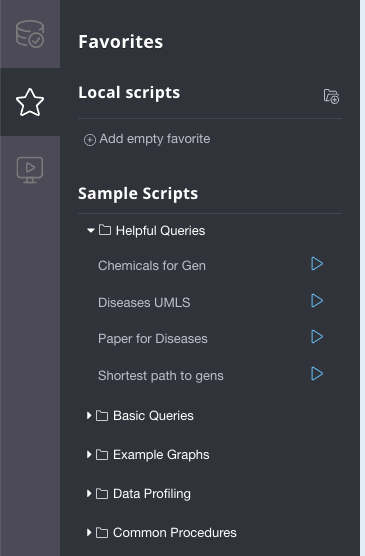
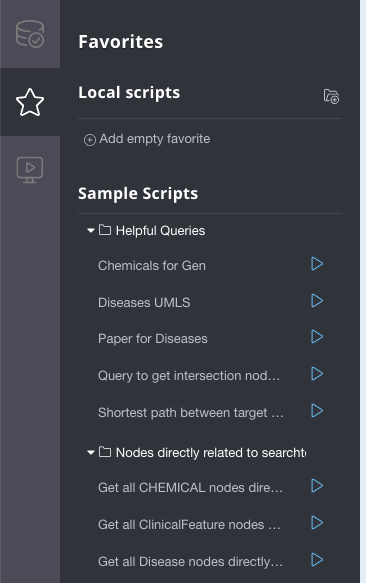
adjust scripts, add more queries, new pictures in browser

diff --git a/src/shared/modules/favorites/staticScripts.ts b/src/shared/modules/favorites/staticScripts.ts
@@ -22,7 +22,7 @@ export const scripts = [
   {
     folder: 'queries',
     content:
-      "// Shortest path to gens \n MATCH (source:Gene {gene:'PAH'}), (target:Gene) CALL apoc.algo.dijkstra(source, target, 'CONTAINS', '') YIELD path RETURN *",
+      "// Shortest path between target and source \n MATCH (source:SearchTerm {label:'phenylketonuria'}), (target:SearchTerm {label: 'epilepsy'}) CALL apoc.algo.dijkstra(source, target, 'CONTAINS', '') YIELD path RETURN *",
     versionRange: '>=3'
   },
   {
@@ -40,7 +40,61 @@ export const scripts = [
   {
     folder: 'queries',
     content:
+      '// Query to get intersection nodes of two search terms You can change the target node of intersection and the search term labels as well Note that you have to change the number in front of the target node, too. For example 5->Protein, 4->Gene. According to their distance to the search Term \n MATCH (s:SearchTerm {label: "phenylketonuria"})-[*5]->(n:Protein) WITH collect(DISTINCT n) AS r1 MATCH (s:SearchTerm {label: "epilepsy"})-[*5]->(n:Protein) WITH collect(DISTINCT n) AS r2, r1 AS r1 RETURN apoc.coll.intersection(r1, r2)',
+    versionRange: '>=3'
+  },
+  {
+    folder: 'queries',
+    content:
       '// Paper for Diseases \n MATCH (u:UMLS {name: "Phenylketonurias"})-[]-()-[]-(p:Paper) RETURN *',
+    versionRange: '>=3'
+  },
+  {
+    folder: 'queries_layers',
+    content:
+      '// Get all UMLS nodes directly related to search term \n MATCH (s:SearchTerm {label: "phenylketonuria"})-[*3]->(u:UMLS) RETURN *',
+    versionRange: '>=3'
+  },
+  {
+    folder: 'queries_layers',
+    content:
+      '// Get all Disease nodes directly related to search term \n MATCH (s:SearchTerm {label: "phenylketonuria"})-[*2]->(u:DISEASE) RETURN *',
+    versionRange: '>=3'
+  },
+  {
+    folder: 'queries_layers',
+    content:
+      '// Get all CHEMICAL nodes directly related to search term \n MATCH (s:SearchTerm {label: "phenylketonuria"})-[*2]->(u:CHEMICAL) RETURN *',
+    versionRange: '>=3'
+  },
+  {
+    folder: 'queries_layers',
+    content:
+      '// Get all Gene nodes directly related to search term \n MATCH (s:SearchTerm {label: "phenylketonuria"})-[*4]->(u:Gene) RETURN *',
+    versionRange: '>=3'
+  },
+  {
+    folder: 'queries_layers',
+    content:
+      '// Get all Protein nodes directly related to search term \n MATCH (s:SearchTerm {label: "phenylketonuria"})-[*5]->(u:Protein) RETURN *',
+    versionRange: '>=3'
+  },
+  {
+    folder: 'queries_layers',
+    content:
+      '// Get all SnomedConcept nodes directly related to search term \n MATCH (s:SearchTerm {label: "phenylketonuria"})-[*5]->(u:SnomedConcept) RETURN *',
+    versionRange: '>=3'
+  },
+  {
+    folder: 'queries_layers',
+    content:
+      '// Get all ClinicalFeature nodes directly related to search term \n MATCH (s:SearchTerm {label: "phenylketonuria"})-[*4]->(u:ClinicalFeature) RETURN *',
+    versionRange: '>=3'
+  },
+  {
+    folder: 'queries_layers',
+    content:
+      '// Get all GO nodes directly related to search term \n MATCH (s:SearchTerm {label: "phenylketonuria"})-[*6]->(u:GO) RETURN *',
     versionRange: '>=3'
   }
 ]
@@ -49,6 +103,12 @@ export const folders = [
   {
     id: 'queries',
     name: 'Helpful Queries',
+    isStatic: true,
+    versionRange: ''
+  },
+  {
+    id: 'queries_layers',
+    name: 'Nodes directly related to searchterm',
     isStatic: true,
     versionRange: ''
   }

diff --git a/src/browser/documentation/sidebar-guides/setup.tsx b/src/browser/documentation/sidebar-guides/setup.tsx
@@ -76,7 +76,14 @@ const slides = [
     </p>
 
     <br />
-    <img src="./assets/images/knowledge_graph.png" className="img-responsive" />
+    <img src="./assets/images/graphStructure.png" className="img-responsive" />
+    <br />
+  </BuiltInGuideSidebarSlide>,
+  <BuiltInGuideSidebarSlide key="s2">
+    <h3>Overview of nodes in Knowledge Graph</h3>
+
+    <br />
+    <img src="./assets/images/nodes.png" className="img-responsive" />
     <br />
   </BuiltInGuideSidebarSlide>,
   <BuiltInGuideSidebarSlide key="s3">
@@ -142,7 +149,7 @@ const slides = [
       </li>
     </ul>
     <br />
-    <img src="./assets/images/architecture.png" className="img-responsive" />
+    <img src="./assets/images/architecture.jpeg" className="img-responsive" />
     <br />
   </BuiltInGuideSidebarSlide>,
   <BuiltInGuideSidebarSlide key="s5">
